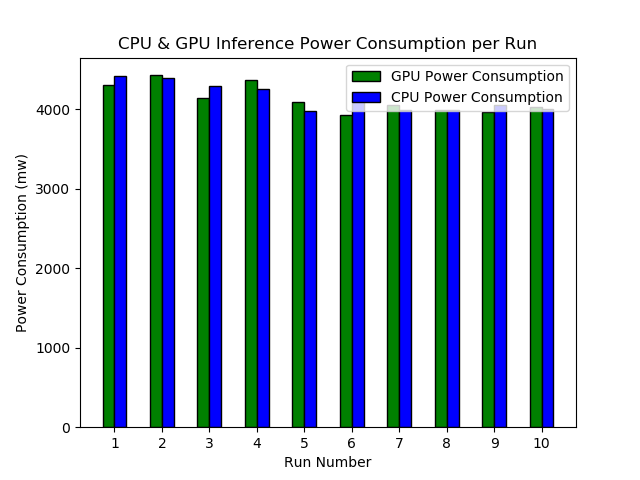
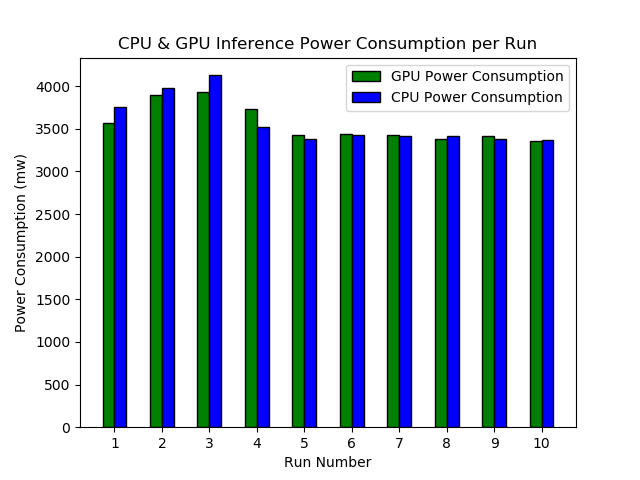
Move grapghing code to pretrained model program

diff --git a/andy/customInference/ImageClassification.py b/andy/customInference/ImageClassification.py
@@ -12,6 +12,10 @@ import matplotlib.pyplot as plt
 
 tf.enable_eager_execution()
 
+#TODO: Do axonn layer splitting for the inference
+#TODO: Play with cpu v gpu distribution
+#TODO Play around with different datasets and sizes
+
 model = tf.keras.applications.MobileNetV2(weights='imagenet')
 model.summary()
 
@@ -72,6 +76,9 @@ def graph():
     cpuTime = [None] * 10
     cpuPower = [None] * 10
 
+    warmupLoop(vpi.Backend.CUDA)
+    warmupLoop(vpi.Backend.CPU)
+
     for t in range(10):
         inference(vpi.Backend.CUDA)
         #GPU Time for 10 seperate runs
@@ -128,5 +135,16 @@ def graph():
     powerTitle
     powerLegend
     powerSave
+
+    averageCPUTime = sum(cpuTime) / len(cpuTime)
+    averageCPUPower = sum(cpuPower) / len(cpuPower)
+
+    averageGPUTime = sum(gpuTime) / len(gpuTime)
+    averageGPUPower = sum(gpuPower) / len(gpuPower)
+
+    print("Average Execution Time for CPU: " + str(averageCPUTime) + " seconds.")
+    print("Average Power Consumption for CPU: " + str(averageCPUPower) + " milliwatts.")
+    print("Average Execution Time for GPU: " + str(averageGPUTime) + " seconds.")
+    print("Average Power Consumption for GPU: " + str(averageGPUPower) + " milliwatts.")
 
 graph()

diff --git a/andy/customInference/CustomImageClassification.py b/andy/customInference/CustomImageClassification.py
@@ -11,7 +11,8 @@ from timeit import default_timer as timer
 
 tf.enable_eager_execution()
 
-#TODO: start recording time, energy etc on cpu and gpu
+#TODO: Do axonn layer splitting for the inference
+
 #TODO: Play with cpu v gpu distribution
 #TODO: play with vic in the preprocessing stuff
 #TODO Play around with different datasets and sizes
